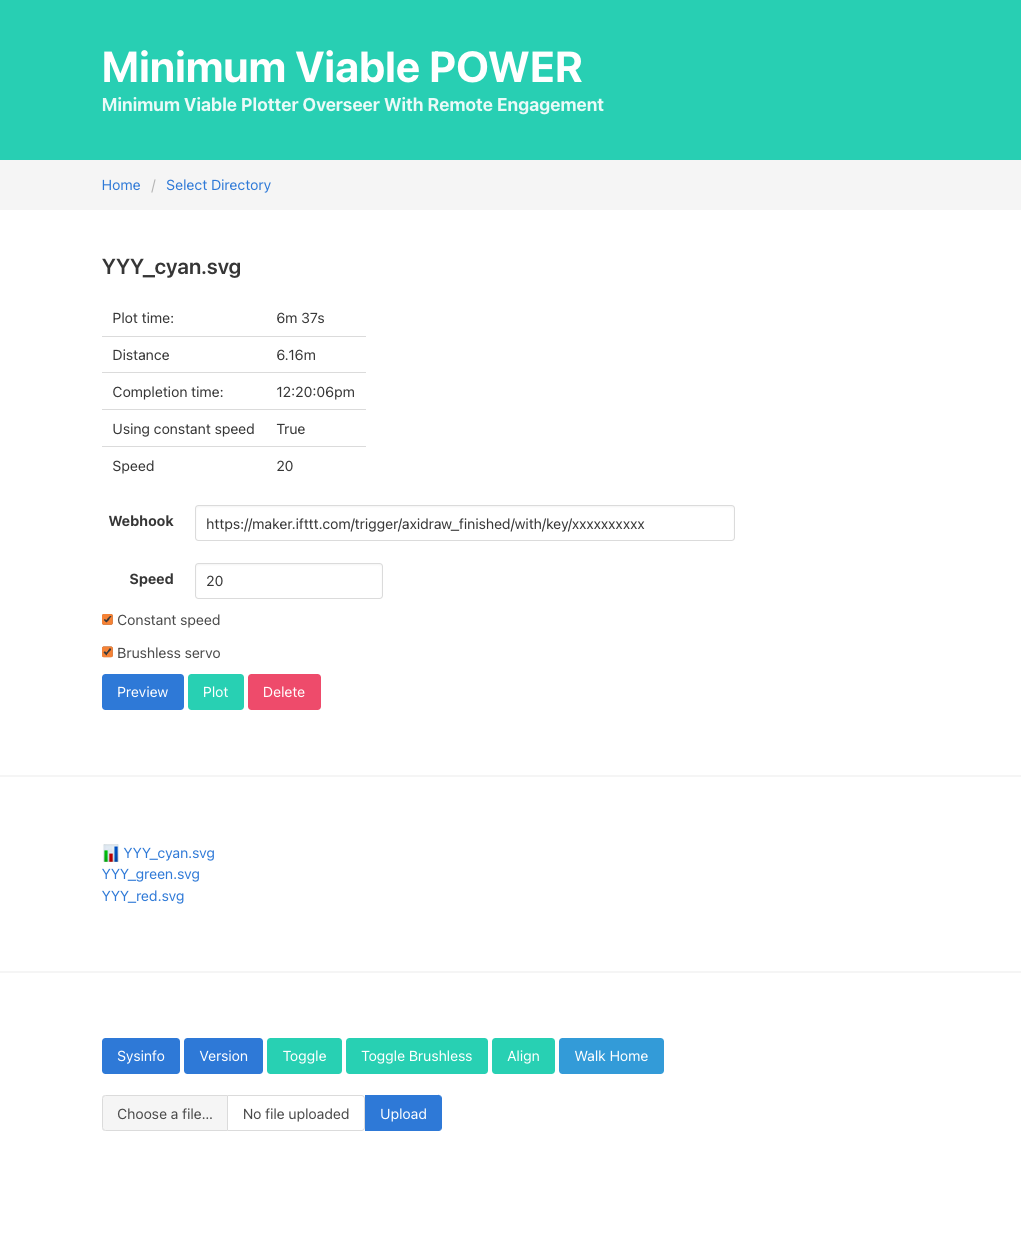
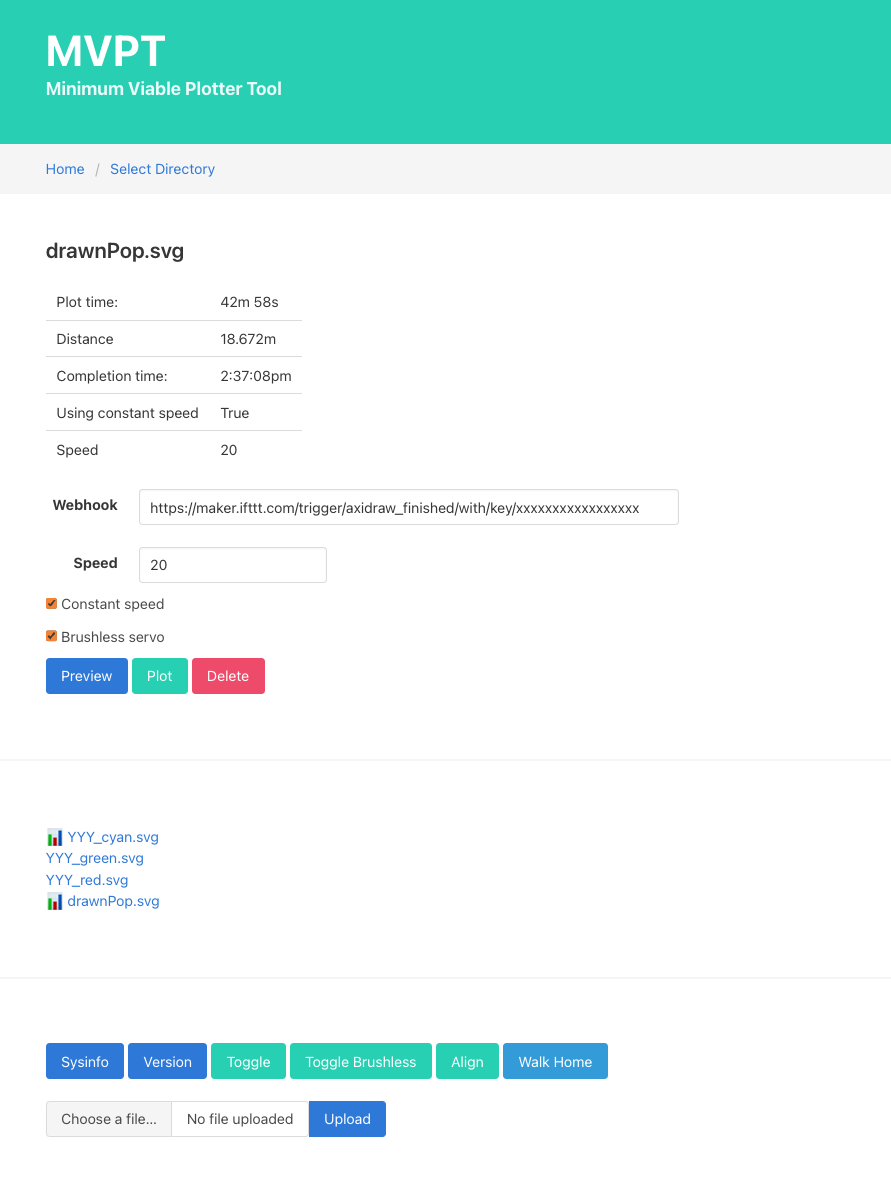
Change name

diff --git a/app/templates/main/index.html b/app/templates/main/index.html
@@ -15,10 +15,10 @@
     <div class="hero-body shader">
       <div class="container">
         <p class="title is-size-1 has-text-weight-bold mb-0">
-          Minimum Viable POWER
+          MVPT
         </p>
         <p class="subtitle has-text-weight-bold pt-5">
-          Minimum Viable Plotter Overseer With Remote Engagement
+          Minimum Viable Plotter Tool
         </p>
       </div>
     </div>
